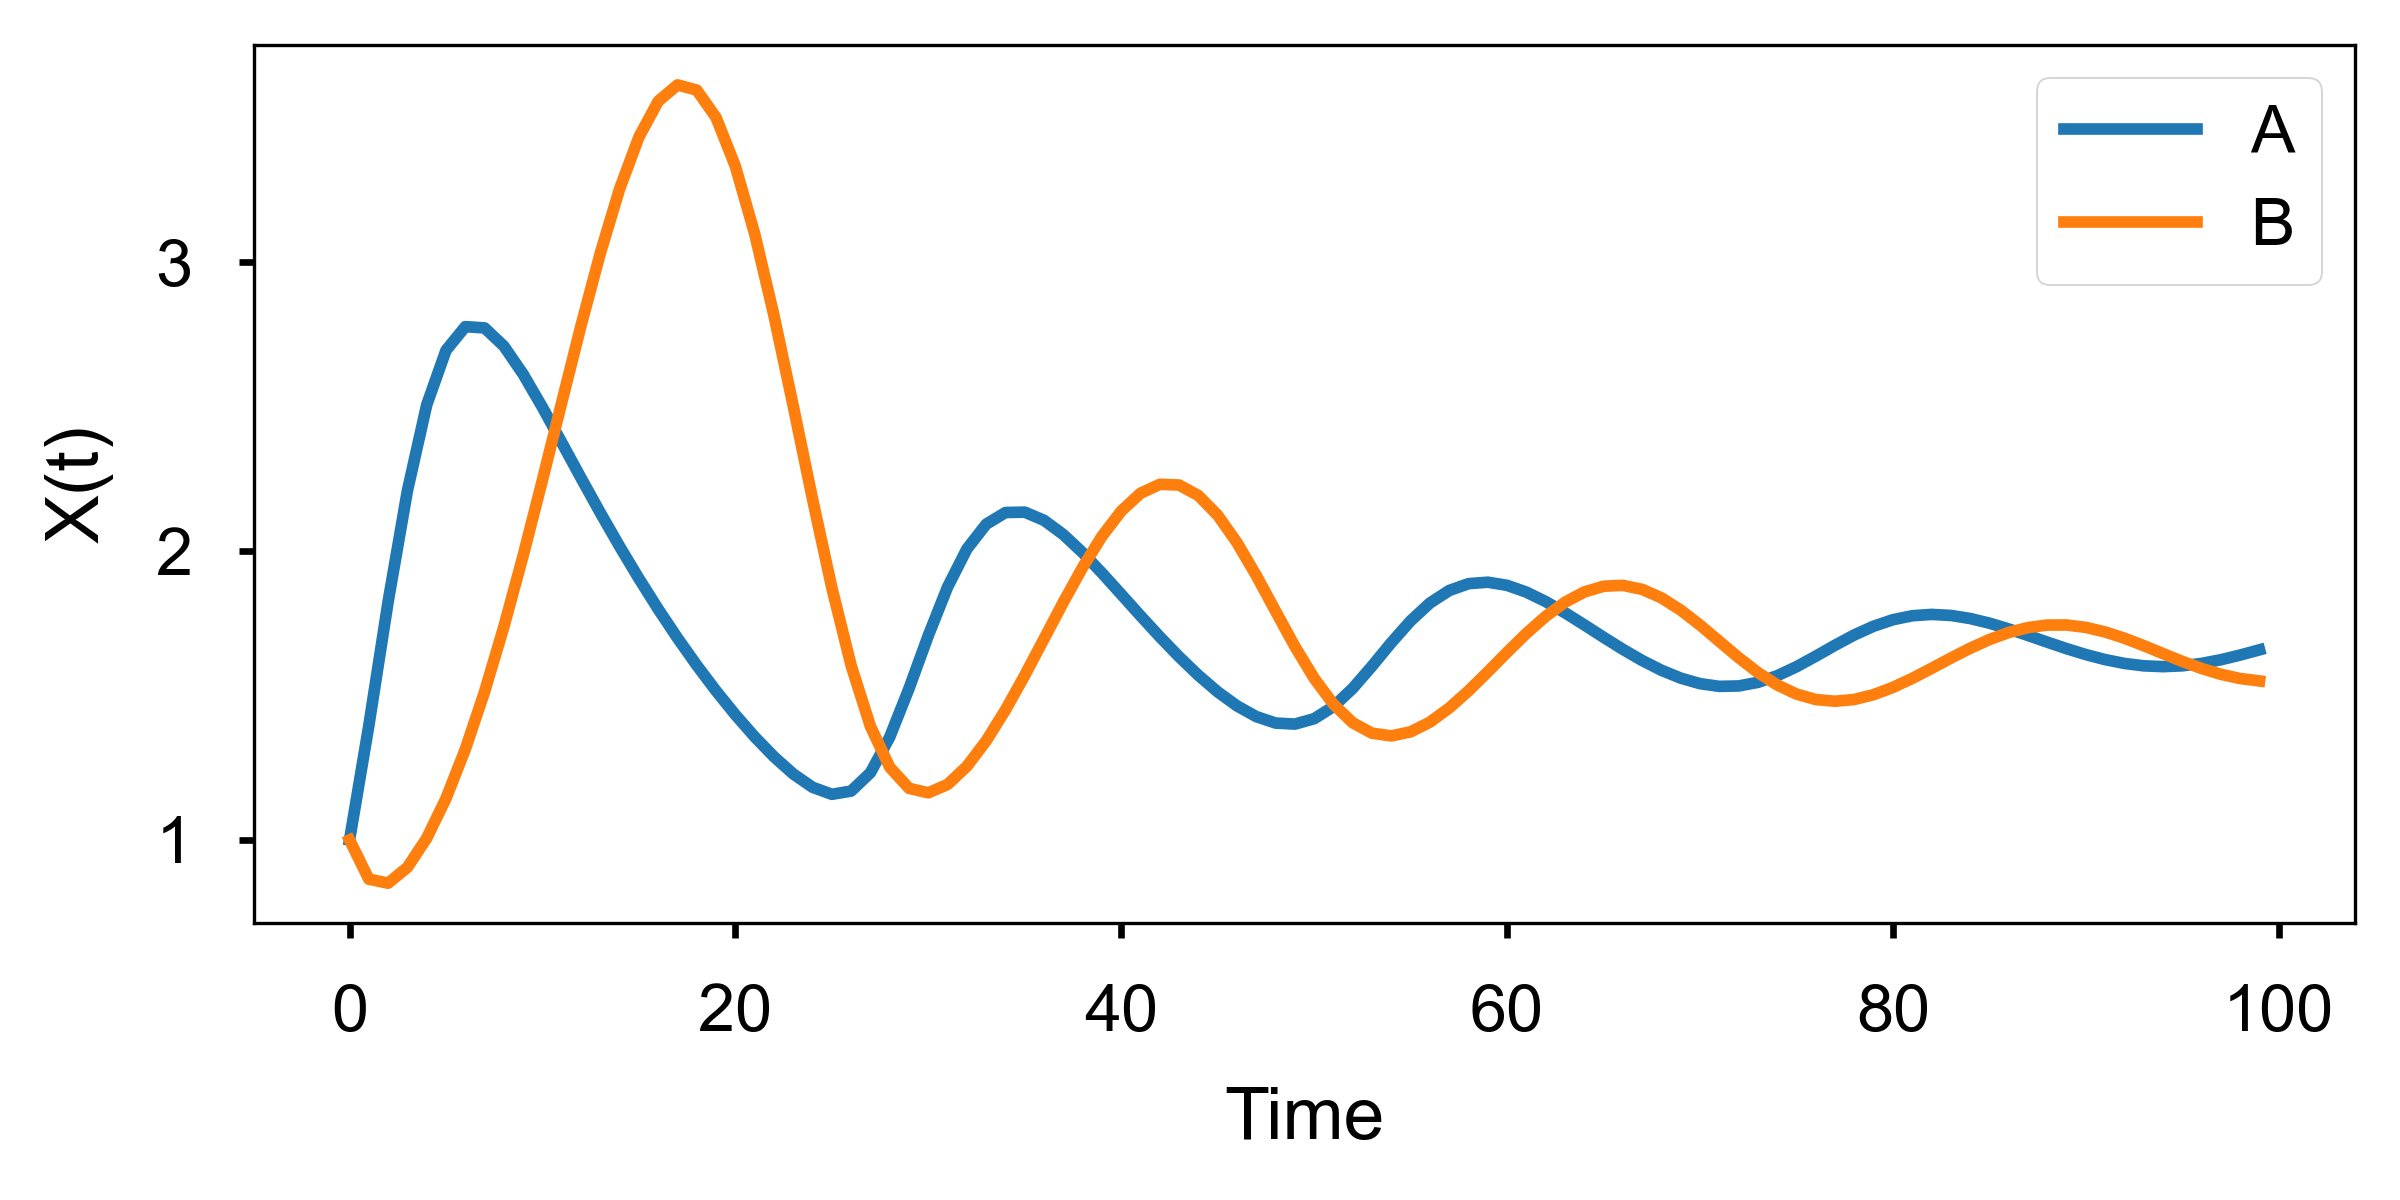
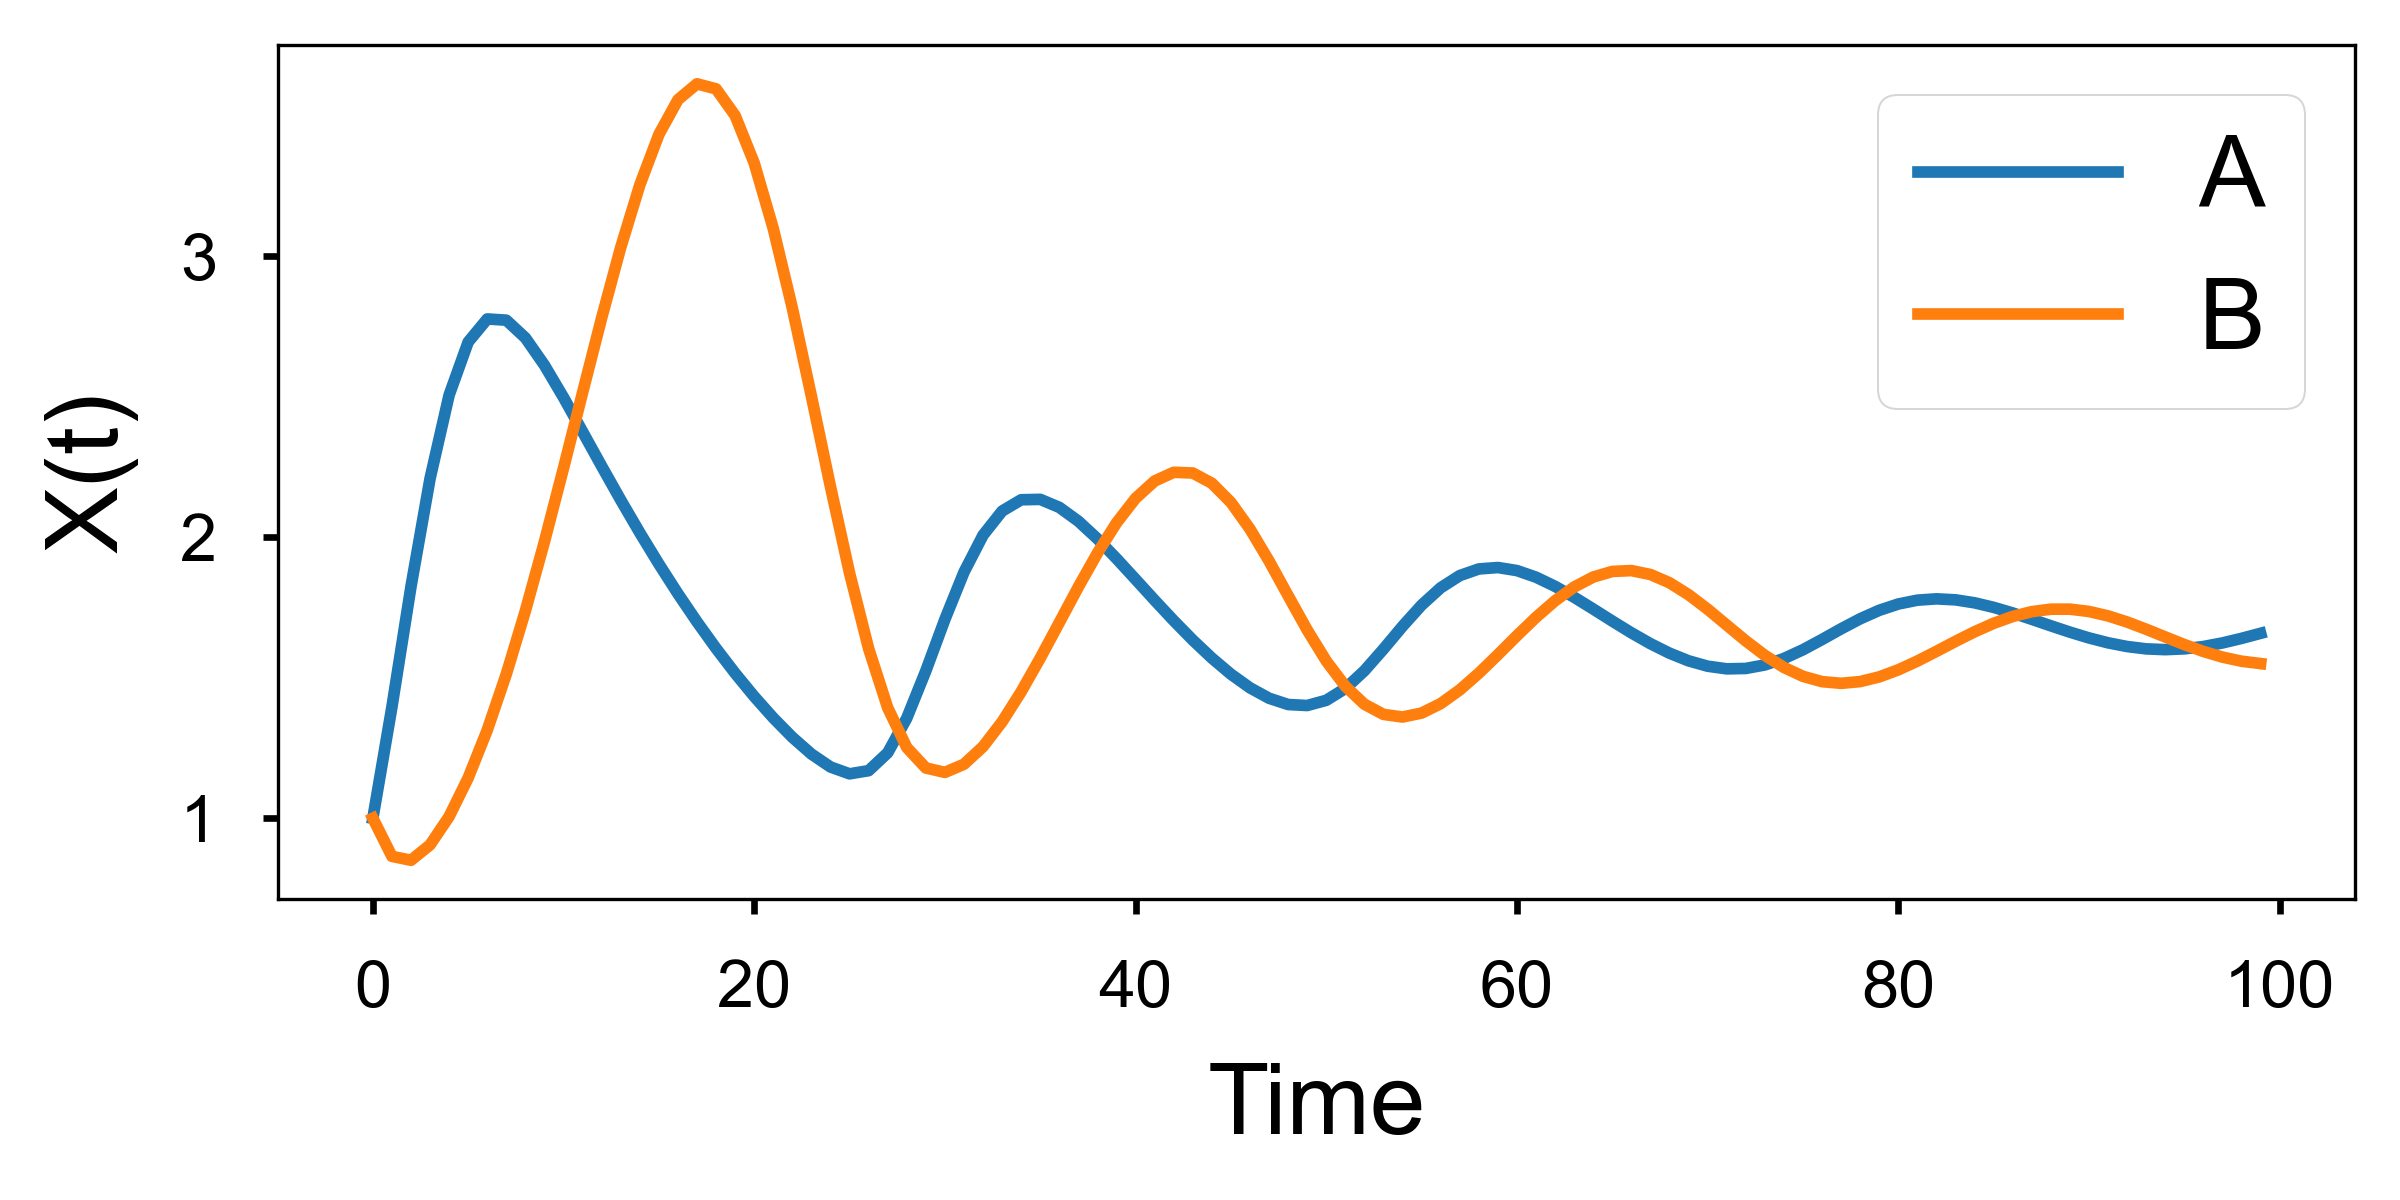
Revise application example

diff --git a/examples/codes/visualize_ode.py b/examples/codes/visualize_ode.py
@@ -18,7 +18,7 @@ def create_network(pos_x, pos_y, s):
     color_white = np.array([255, 255, 255, 0])
     color_up = np.array([255, 0, 0, 0])
     color_dn = np.array([0, 0, 255, 0])
-    
+
     net = Network('2NNFL')
     src = EllipseNode('A', 40, 40, pos=QPointF(pos_x[0], pos_y[0]))
     tgt = EllipseNode('B', 40, 40, pos=QPointF(pos_x[1], pos_y[1]))
@@ -48,18 +48,18 @@ def create_network(pos_x, pos_y, s):
             color = color_white + norm_abs_s[i] * (color_up - color_white)
         elif s[i] <= 0:
             color = color_white + norm_abs_s[i] * (color_dn - color_white)
-    
+
         color[3] = 255
         node["FILL_COLOR"] = QColor(*color)
         node["BORDER_COLOR"] = Qt.black
         node["BORDER_WIDTH"] = 2
         node["WIDTH"] = node["HEIGHT"] = 20 + 50 * norm_abs_s[i]
-    
+
         label_name = TextLabel(node, node.iden)
         label_name["FONT_SIZE"] = 10 + 30 * norm_abs_s[i]
         label_name["TEXT_COLOR"] = Qt.white
         label_name.align()
-    
+
         lightness = QColor(node["FILL_COLOR"]).lightness()
         if lightness < 200:
             label_name["TEXT_COLOR"] = Qt.white
@@ -67,7 +67,7 @@ def create_network(pos_x, pos_y, s):
         else:
             label_name["TEXT_COLOR"] = Qt.black
             label_name["FONT_BOLD"] = False
-    
+
         net.add_label(label_name)
     # end of for
     return net
@@ -108,7 +108,7 @@ def update(nav, net):
     sol = sol - np.median(sol)
 
     pos_x = np.array([-80.0, 80.0])
-    pos_y = np.array([0.0, 0.0]) 
+    pos_y = np.array([0.0, 0.0])
 
     fpaths = []
     for i, s in enumerate(sol):
@@ -117,4 +117,5 @@ def update(nav, net):
         fpaths.append(fpath)
         write_image(net, fpath, transparent=False, scale_width=200, scale_height=200)
     # end of for
+
     create_movie(fpaths, "2nnfl-dynamics.gif")

diff --git a/examples/codes/solve_ode.py b/examples/codes/solve_ode.py
@@ -26,9 +26,9 @@ y = odeint(ode, y0, t)
 
 fig = plt.figure(figsize=(8, 4))
 plt.plot(t, y)
-plt.xlabel('Time', labelpad=10)
-plt.ylabel('X(t)', labelpad=10)
-plt.legend(["A", "B"])
+plt.xlabel('Time', fontsize=24, labelpad=10)
+plt.ylabel('X(t)', fontsize=24, labelpad=10)
+plt.legend(["A", "B"], fontsize=24)
 plt.tight_layout()
 plt.show()
 plt.savefig("2nnfl-time-series.png", dpi=300)

diff --git a/examples/gallery.md b/examples/gallery.md
@@ -1278,7 +1278,7 @@
   <tr>
   <td>
   <p>
-  <img src="images/2nnfl-time-series.gif" alt="Drawing" width="300px"/>
+  <img src="images/2nnfl-time-series.png" alt="Drawing" width="300px"/>
   </p>
   <p>
   <img src="images/2nnfl-network.gif" alt="Drawing" width="300px"/>
@@ -1406,6 +1406,7 @@
           fpaths.append(fpath)
           write_image(net, fpath, transparent=False, scale_width=200, scale_height=200)
       # end of for
+      
       create_movie(fpaths, "2nnfl-dynamics.gif")
   ```
 

diff --git a/README.md b/README.md
@@ -19,6 +19,8 @@
   (abstracted by [`QtPy`](https://github.com/spyder-ide/qtpy) in this project).
 
 
+## Installation
+
 ## Examples
 
 ### Adjust network graphics through GUI
